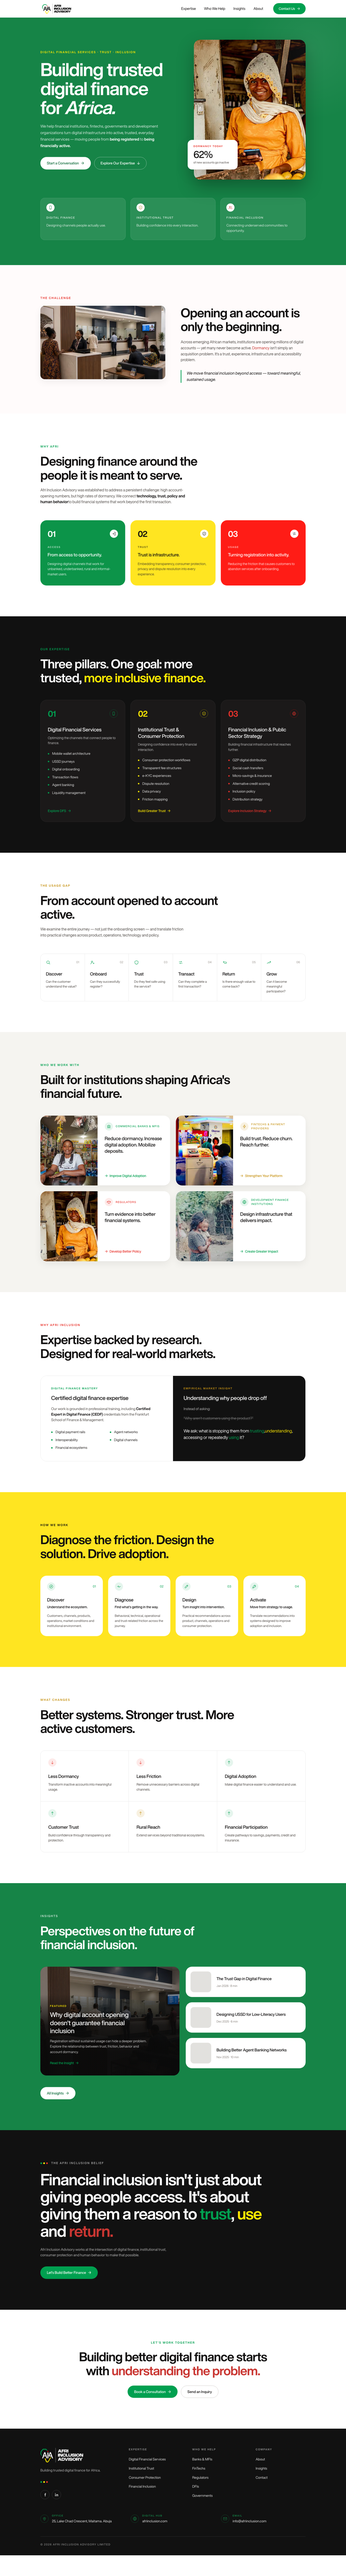
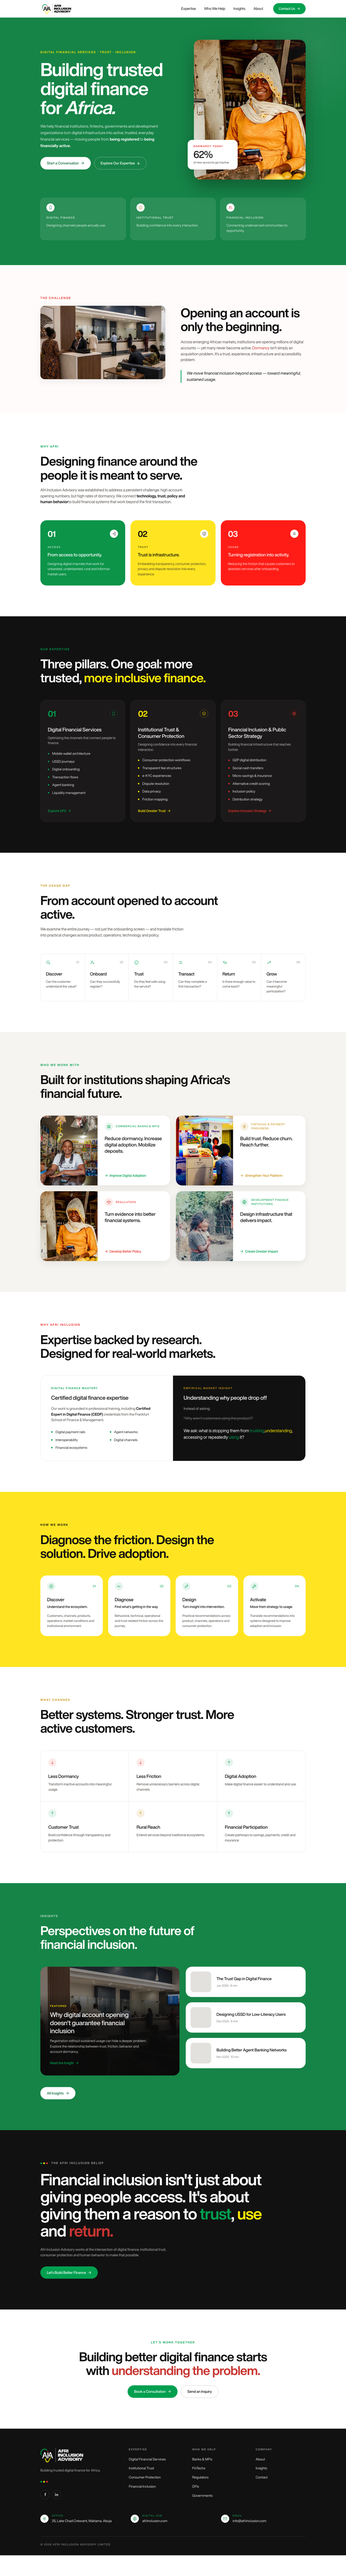
Refactor code structure for improved readability and maintainability

Changed region(s): [[0.4978, 0.4375, 0.6844, 0.5], [0.1244, 0.4375, 0.28, 0.5]]

diff --git a/components/site/Audiences.tsx b/components/site/Audiences.tsx
@@ -13,7 +13,7 @@ export default function Audiences() {
           <div className="audiences reveal">
             <article className="aud">
               <figure className="aud__media">
-                <Image src="/assets/img/audience-banks.jpg" alt="A shop owner behind her counter taking a digital payment" width={251} height={307} />
+                <Image src="/assets/img/commercial-banks-mfis.jpg" alt="A shop owner behind her counter taking a digital payment" width={900} height={1100} />
               </figure>
               <div className="aud__body">
                 <p className="aud__tag aud__tag--green">
@@ -27,7 +27,7 @@ export default function Audiences() {
 
             <article className="aud">
               <figure className="aud__media">
-                <Image src="/assets/img/audience-fintechs.jpg" alt="Customers at a brightly lit retail payment point" width={251} height={307} />
+                <Image src="/assets/img/fintechs-payment-providers.jpg" alt="Customers at a brightly lit retail payment point" width={900} height={1100} />
               </figure>
               <div className="aud__body">
                 <p className="aud__tag aud__tag--amber">
@@ -41,7 +41,7 @@ export default function Audiences() {
 
             <article className="aud">
               <figure className="aud__media">
-                <Image src="/assets/img/audience-regulators.jpg" alt="A trader smiling while using a mobile phone at her stall" width={251} height={287} />
+                <Image src="/assets/img/regulators.jpg" alt="A trader smiling while using a mobile phone at her stall" width={900} height={1029} />
               </figure>
               <div className="aud__body">
                 <p className="aud__tag aud__tag--red">
@@ -55,7 +55,7 @@ export default function Audiences() {
 
             <article className="aud">
               <figure className="aud__media">
-                <Image src="/assets/img/audience-dfis.jpg" alt="A mother and child outside a rural home" width={251} height={307} />
+                <Image src="/assets/img/development-finance-institutions.jpg" alt="A mother and child outside a rural home" width={900} height={1100} />
               </figure>
               <div className="aud__body">
                 <p className="aud__tag aud__tag--green">

diff --git a/app/globals.css b/app/globals.css
@@ -828,7 +828,8 @@ img.feature__bg,
   text-transform: uppercase; color: var(--green-deep); margin-bottom: 3px;
 }
 .footer__contact .ico-chip {
-  border-color: rgba(22,132,71,.5);
+  background: #fff;
+  border-color: #fff;
   color: var(--green-deep);
 }
 .footer__contact-value { display: block; font-size: 14.5px; color: rgba(255,255,255,.9); }

diff --git a/README.md b/README.md
@@ -139,22 +139,27 @@ font. They collapse to natural wrapping below 820px.
 `public/assets/img/` is generated from `design/exports/` and `design/logos/` —
 trimmed of transparent rounded margins and flattened onto white.
 
-| Source | Served as |
-| --- | --- |
-| `Complete Landing Girl Image.png` | `hero-merchant.jpg` |
-| `Opening An Account.png` | `challenge-branch.jpg` |
-| `Reduce Dormancy.png` | `audience-banks.jpg` |
-| `Build Trust.png` | `audience-fintechs.jpg` |
-| `Turn Evidence.png` | `audience-regulators.jpg` |
-| `Design Infra.png` | `audience-dfis.jpg` |
-| `why digital account opening.png` | `insight-featured.jpg` |
+| Source | Served as | Used by |
+| --- | --- | --- |
+| `Complete Landing Girl Image.png` | `hero-merchant.jpg` | Hero |
+| `Opening An Account.png` | `challenge-branch.jpg` | The Challenge |
+| `Commercial Bank & MFI.jpg` | `commercial-banks-mfis.jpg` | Who We Work With |
+| `Fintechs & Payment Providers.jpg` | `fintechs-payment-providers.jpg` | Who We Work With |
+| `Regulators.jpg` | `regulators.jpg` | Who We Work With |
+| `Development Finance Institutions.jpg` | `development-finance-institutions.jpg` | Who We Work With |
+| `why digital account opening.png` | `insight-featured.jpg` | Insights featured card |
+
+Served files are named for the section they appear in, in URL-safe form — no
+spaces or ampersands, which would have to be percent-encoded in every `src`.
 
 `why digital account opening.png` has the card's headline and body baked in, so
 only the clean photo band above them is used and the text renders live. It is a
 short strip stretched to fill the card; a taller clean export would sharpen it.
 
-Exports are roughly 1× for their rendered size, so they are slightly soft on a
-retina screen. Re-export at 2× under the same filenames whenever convenient.
+The four Who We Work With photographs are full-resolution (900px wide for a
+~240px slot, so crisp at 2×). The hero, Challenge and Insights images are still
+roughly 1× and will look slightly soft on a retina screen — re-export those at 2×
+under the same filenames whenever convenient.
 
 `design/logos/` holds the full identity pack. Three variants are the sources for
 the served logos and favicon; the other five are unused by the site but kept as
